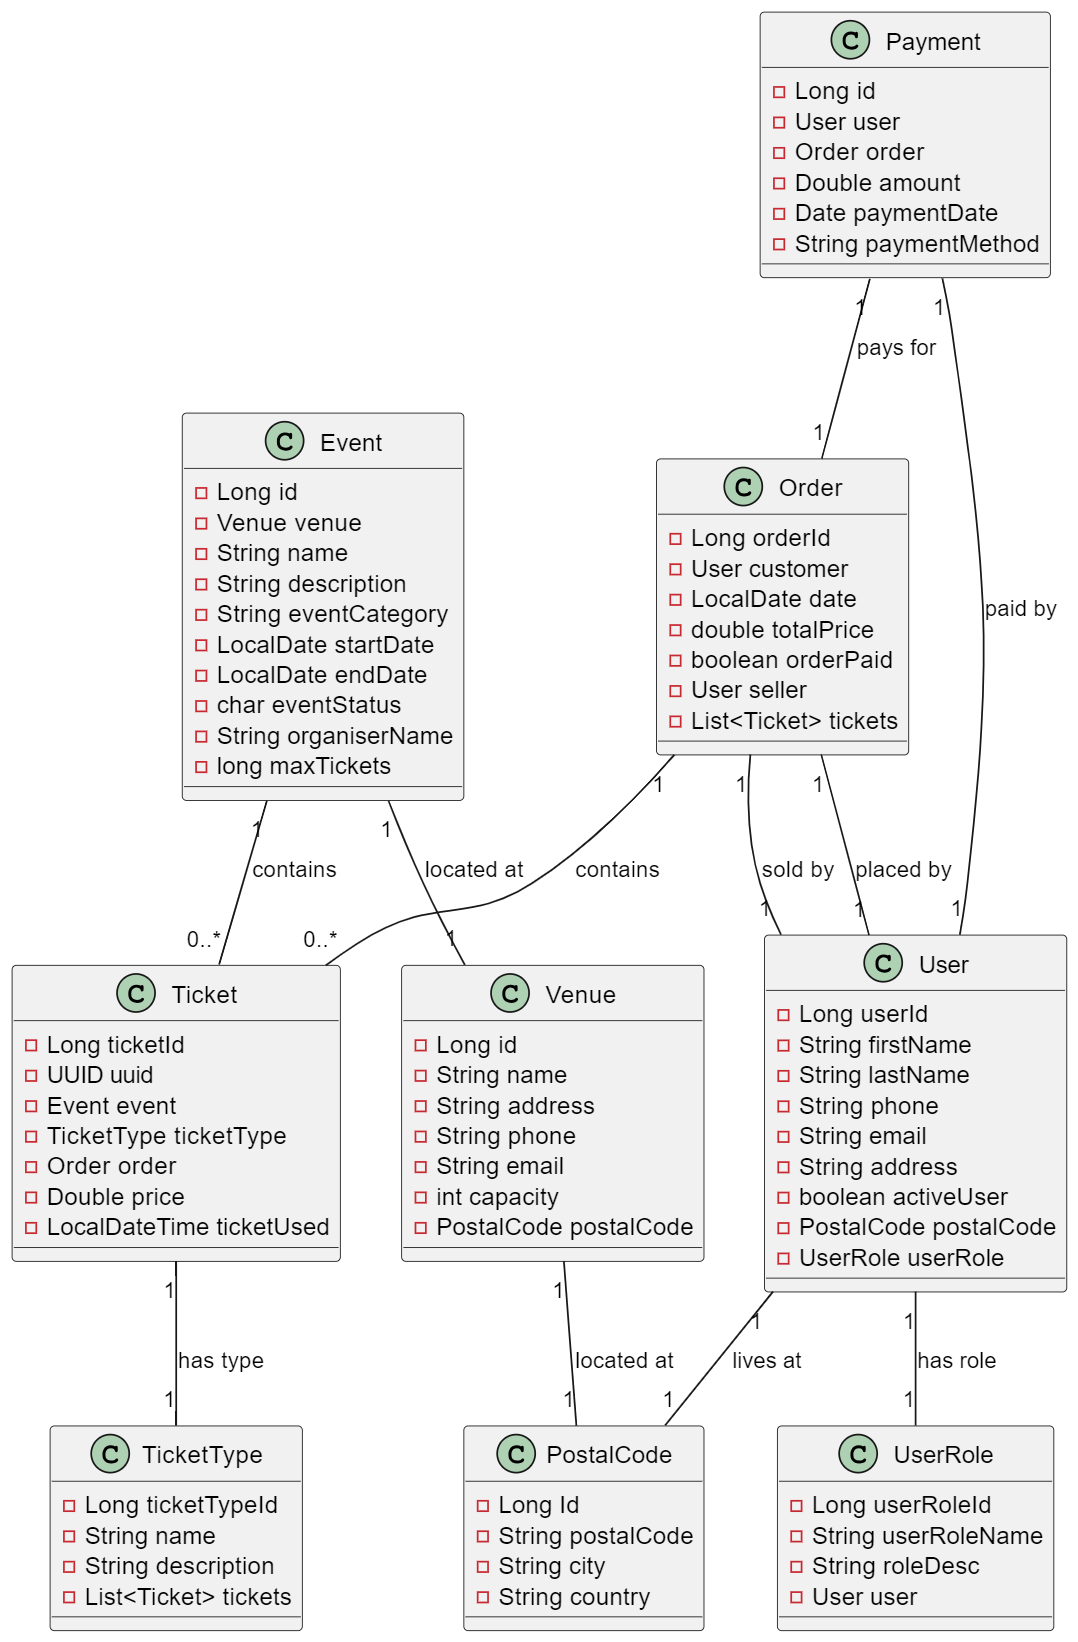
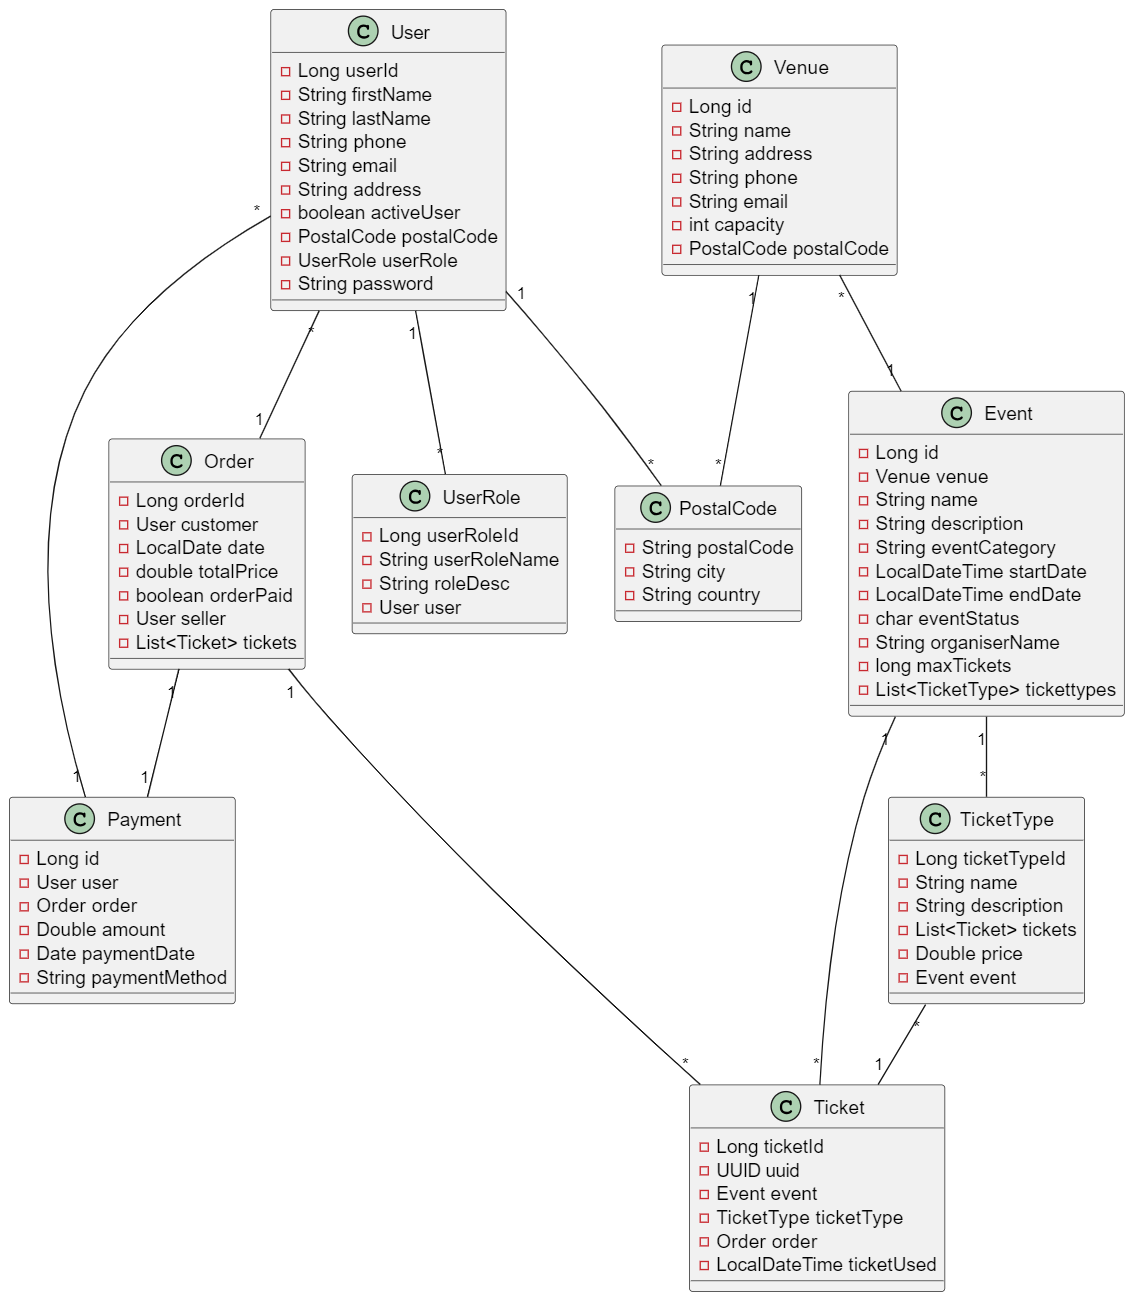
backend event date -> datetime + tietokantakaavio

diff --git a/TicketGuru/TicketGuru-Backend/src/main/java/com/example/TicketGuru/domain/Event.java b/TicketGuru/TicketGuru-Backend/src/main/java/com/example/TicketGuru/domain/Event.java
@@ -1,7 +1,8 @@
 package com.example.TicketGuru.domain;
 
-import java.time.LocalDate;
+import java.time.LocalDateTime;
 import java.util.ArrayList;
+import java.util.Date;
 import java.util.List;
 
 import com.fasterxml.jackson.annotation.JsonBackReference;
@@ -45,11 +46,11 @@ public class Event {
 
     @Column(name = "StartDate")
     @NotNull
-    private LocalDate startDate;
+    private LocalDateTime startDate;
 
     @Column(name = "EndDate")
     @NotNull
-    private LocalDate endDate;
+    private LocalDateTime endDate;
 
     @Column(name = "eventStatus")
     private char eventStatus;
@@ -82,7 +83,7 @@ public class Event {
         super();
     }
 
-    public Event(Venue venue, String name, String description, String eventCategory, LocalDate startDate, LocalDate endDate,
+    public Event(Venue venue, String name, String description, String eventCategory, LocalDateTime startDate, LocalDateTime endDate,
             char eventStatus, String organiserName, long maxTickets) {
         this.venue = venue;
         this.name = name;
@@ -135,19 +136,19 @@ public class Event {
         this.eventCategory = eventCategory;
     }
 
-    public LocalDate getStartDate() {
+    public LocalDateTime getStartDate() {
         return startDate;
     }
 
-    public void setStartDate(LocalDate startDate) {
+    public void setStartDate(LocalDateTime startDate) {
         this.startDate = startDate;
     }
 
-    public LocalDate getEndDate() {
+    public LocalDateTime getEndDate() {
         return endDate;
     }
 
-    public void setEndDate(LocalDate endDate) {
+    public void setEndDate(LocalDateTime endDate) {
         this.endDate = endDate;
     }
 

diff --git a/TicketGuru/TicketGuru-Backend/src/test/java/com/example/TicketGuru/EventTest.java b/TicketGuru/TicketGuru-Backend/src/test/java/com/example/TicketGuru/EventTest.java
@@ -2,12 +2,10 @@ package com.example.TicketGuru;
 
 import static org.junit.jupiter.api.Assertions.assertEquals;
 import static org.junit.jupiter.api.Assertions.assertNotNull;
-
-import java.time.LocalDate;
+import java.time.LocalDateTime;
 
 import org.junit.jupiter.api.BeforeEach;
 import org.junit.jupiter.api.Test;
-import org.springframework.beans.factory.annotation.Autowired;
 import org.springframework.boot.test.context.SpringBootTest;
 
 import com.example.TicketGuru.domain.Event;
@@ -27,8 +25,8 @@ public class EventTest {
         venue1 = new Venue("Olympiastadion", "Paavo Nurmen tie 1", "040123456789", "demoevent@demomail.com", 36200,
                 pcode1);
 
-        event1 = new Event(venue1, "Cool event", "Cool event example", "Cool event", LocalDate.parse("2024-02-22"),
-                LocalDate.parse("2024-02-24"),
+        event1 = new Event(venue1, "Cool event", "Cool event example", "Cool event", LocalDateTime.parse("2024-02-22T10:15:30"),
+        		LocalDateTime.parse("2024-02-24T18:30:00"),
                 'U', "Cool events org.", 36000L);
     }
 
@@ -54,12 +52,12 @@ public class EventTest {
 
     @Test
     public void EventStartDate() {
-        assertEquals(LocalDate.parse("2024-02-22"), event1.getStartDate());
+        assertEquals(LocalDateTime.parse("2024-02-22T10:15:30"), event1.getStartDate());
     }
 
     @Test
     public void EventEndDate() {
-        assertEquals(LocalDate.parse("2024-02-24"), event1.getEndDate());
+        assertEquals(LocalDateTime.parse("2024-02-24T18:30:00"), event1.getEndDate());
     }
 
     @Test
